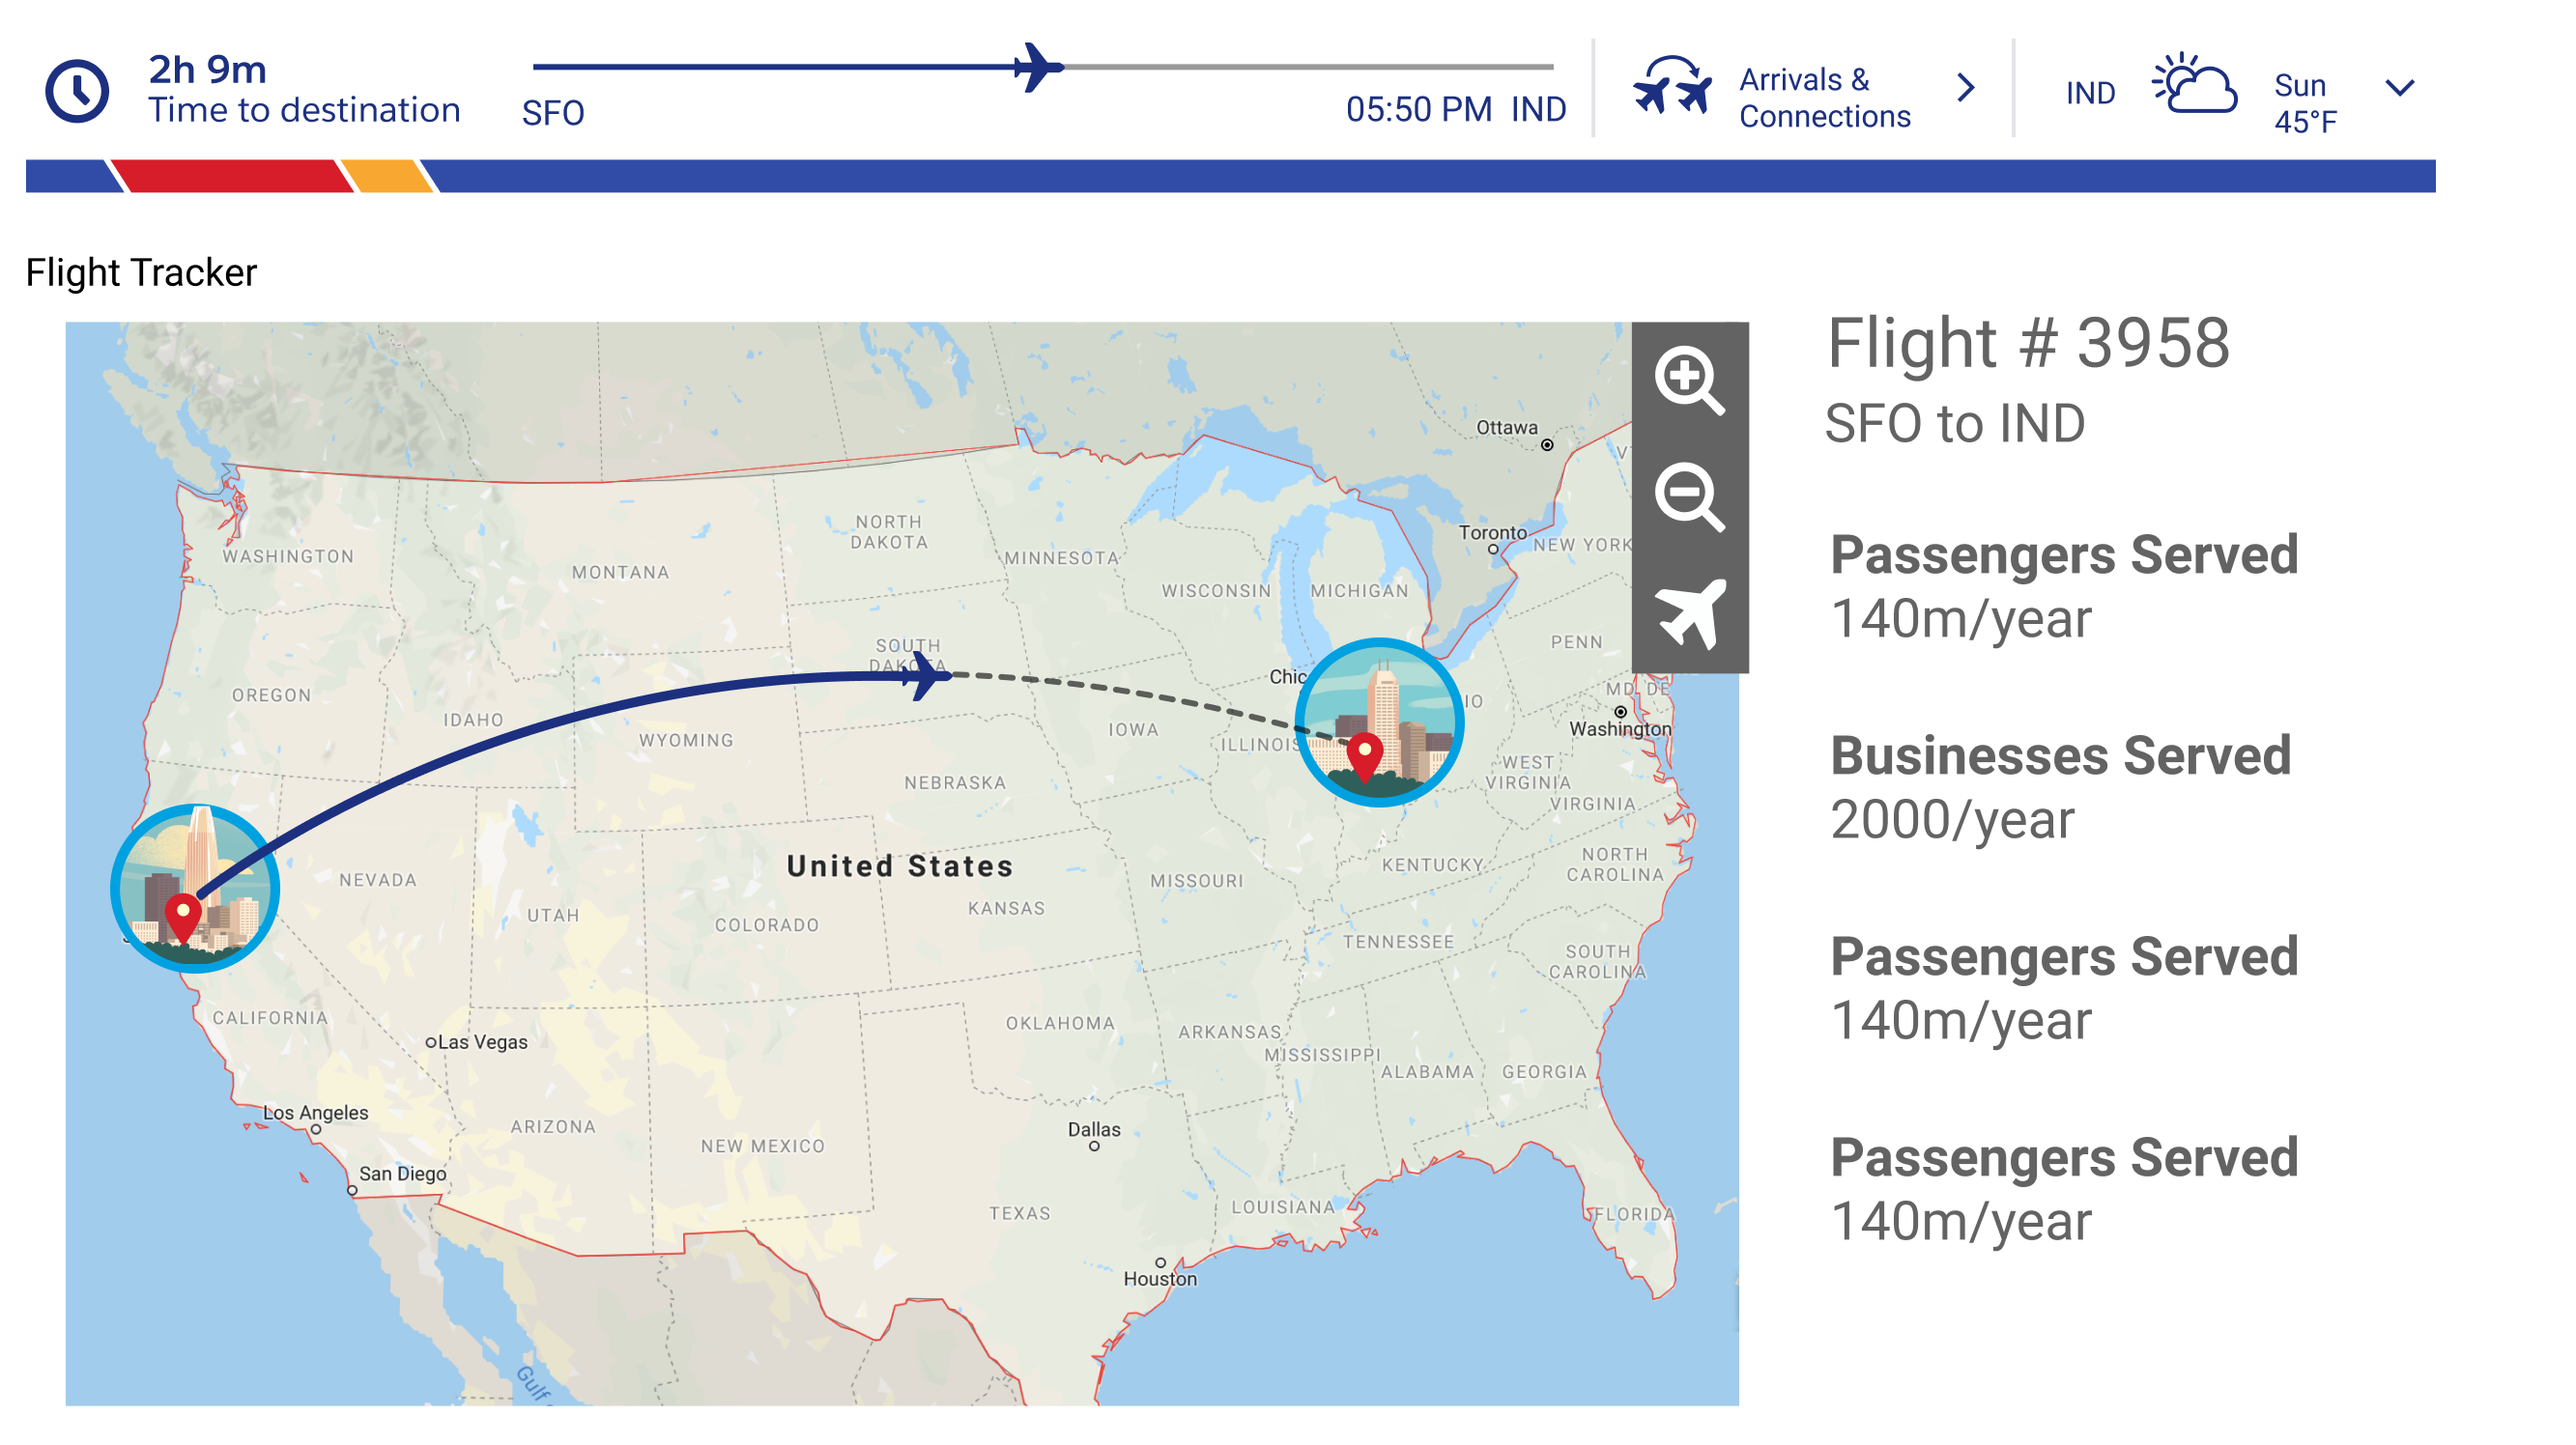
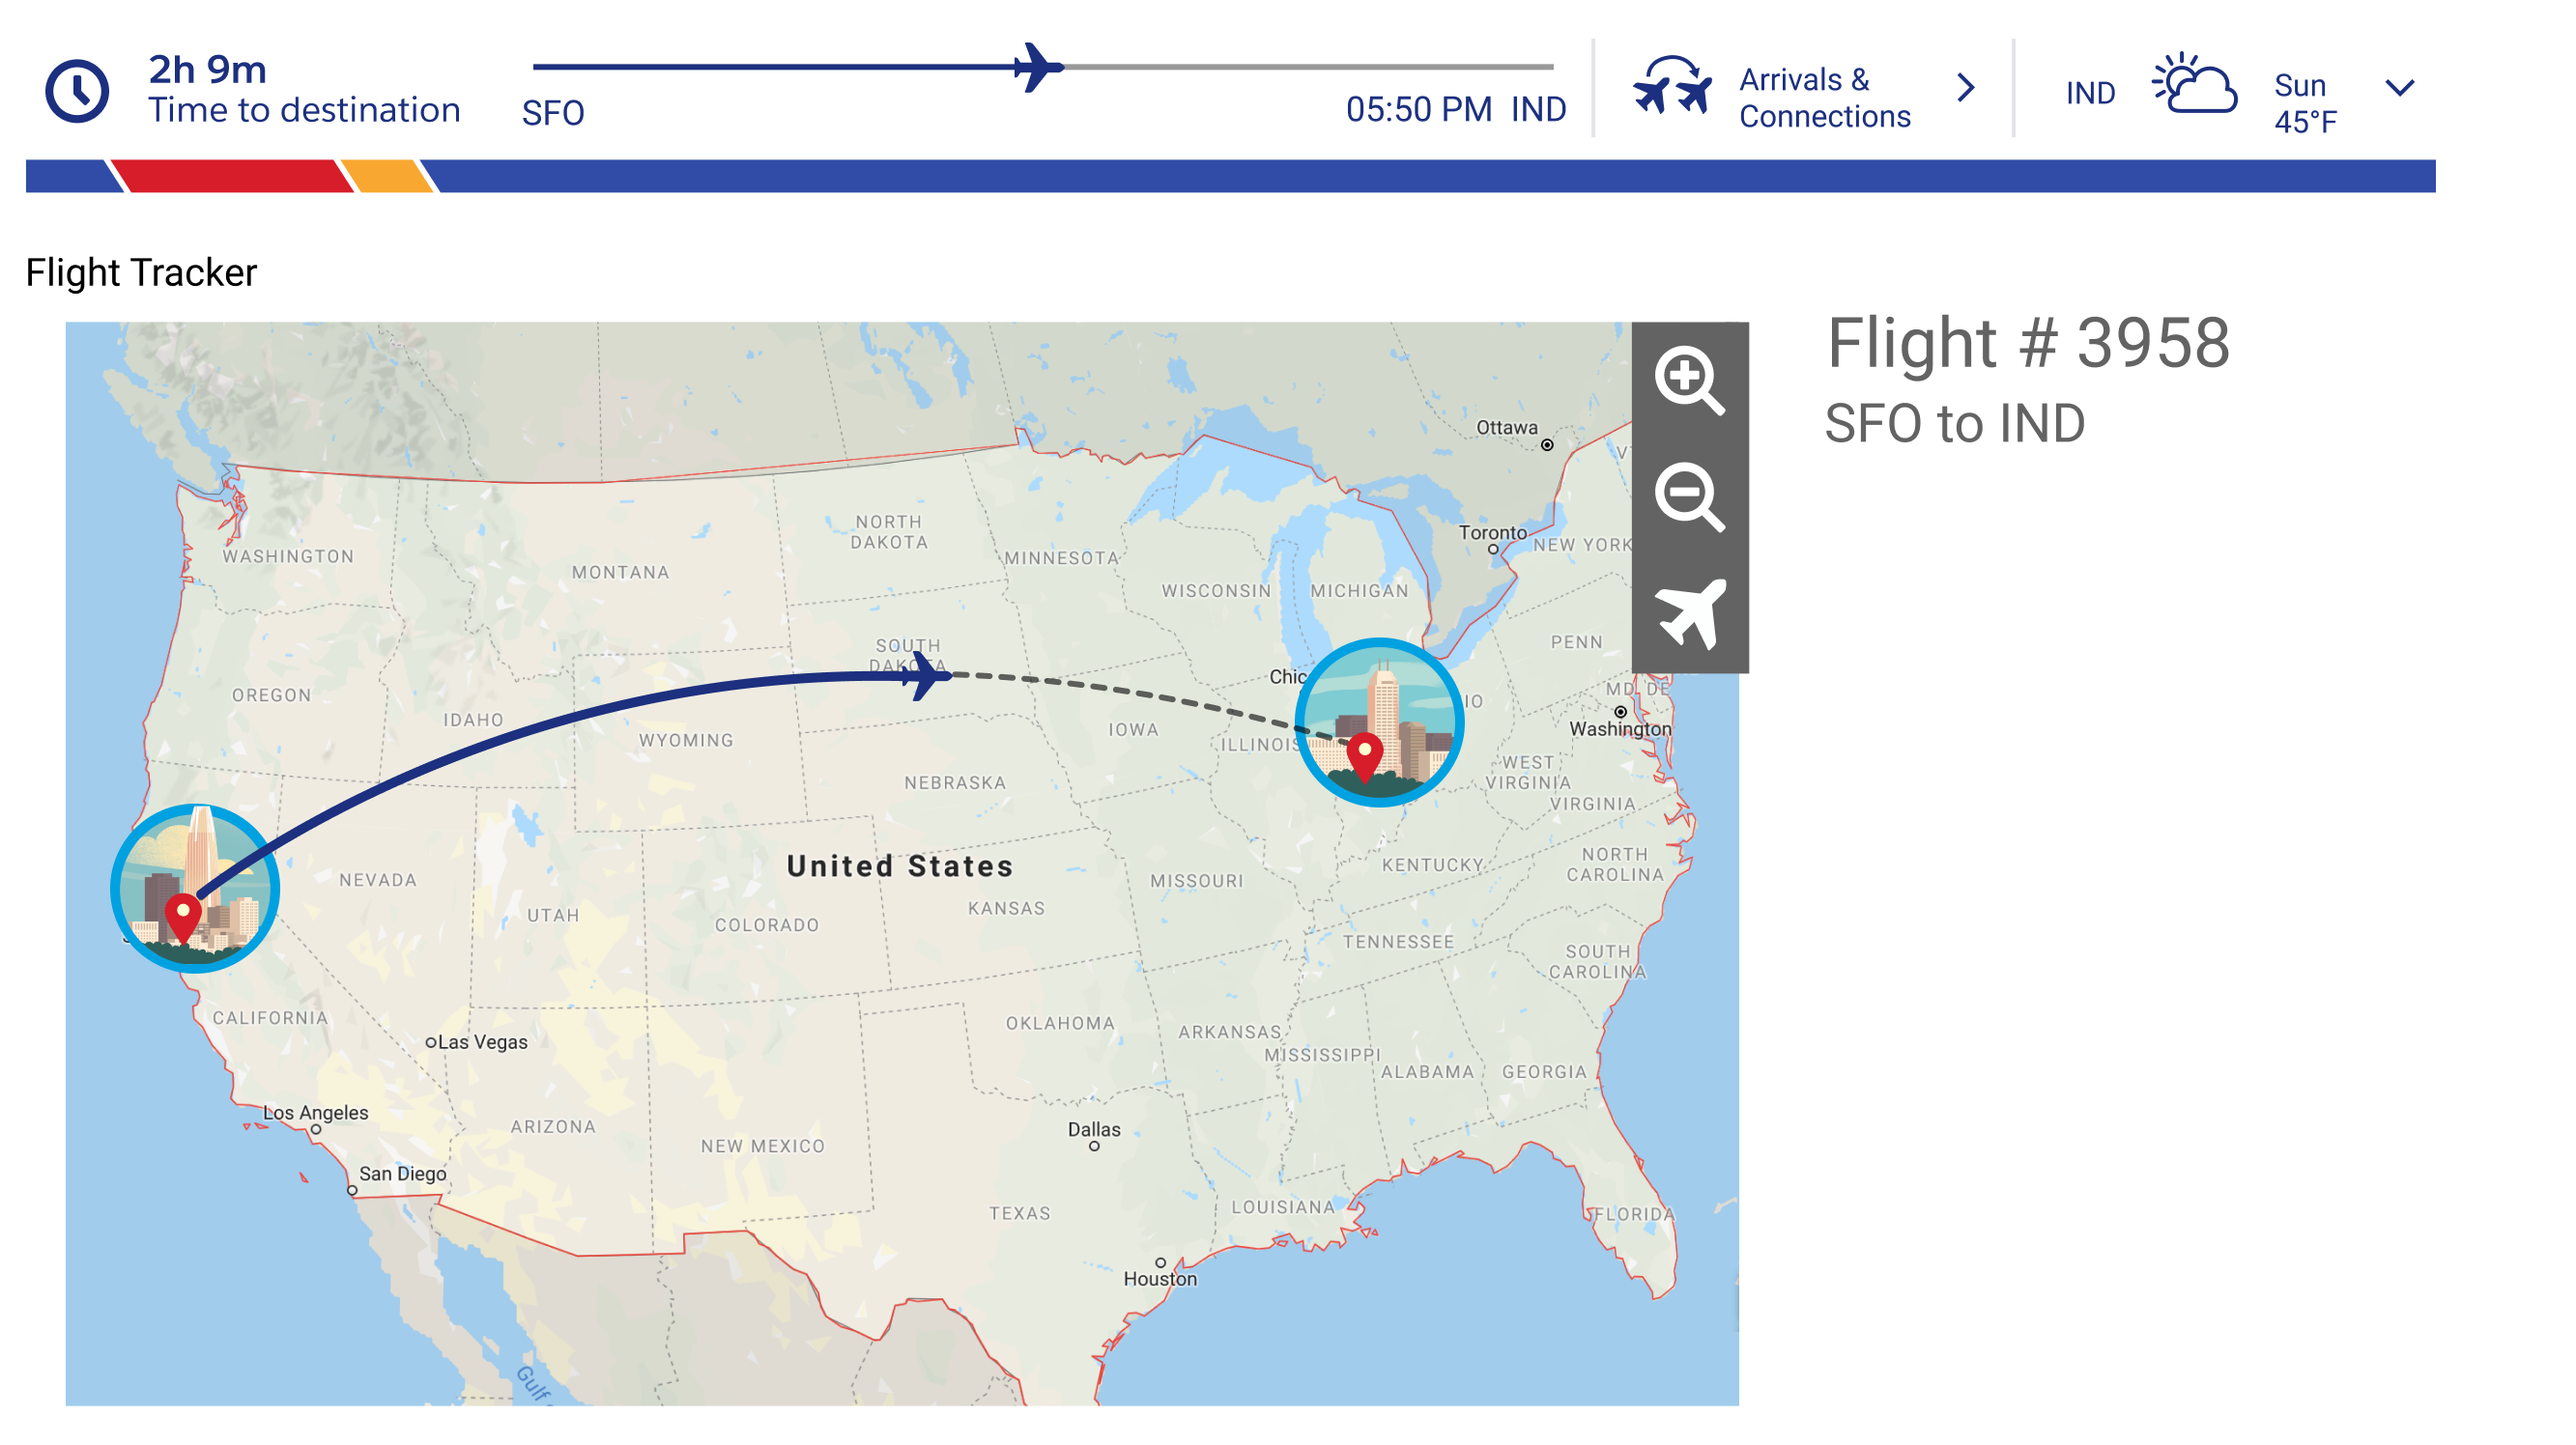
Adds the opening slide. Demo screen updates.

diff --git a/magick-flows-web-root/magick-flows/mc2-inov8-summit-2019/assets/styles.css b/magick-flows-web-root/magick-flows/mc2-inov8-summit-2019/assets/styles.css
@@ -1,7 +1,7 @@
 /* This is done to preload images and reduce load flicker */
 body::after {
   backface-visibility: visible;
-  content: url("/magick-flows/mc2-inov8-summit-2019/main/0000___ID=route-map-intro.png") url("/magick-flows/mc2-inov8-summit-2019/main/0010___ID=login-empty.png") url("/magick-flows/mc2-inov8-summit-2019/main/0015___ID=login-filled.png") url("/magick-flows/mc2-inov8-summit-2019/main/0020___ID=sales-home___DATA=is-own-header__own-header-height--90.png") url("/magick-flows/mc2-inov8-summit-2019/main/0030___ID=app-launcher.png") url("/magick-flows/mc2-inov8-summit-2019/main/0040___ID=marketing-home___DATA=is-own-header__own-header-height--90.png") url("/magick-flows/mc2-inov8-summit-2019/main/0050___ID=b2c-campaign-record-home___DATA=is-own-header__own-header-height--90.png") url("/magick-flows/mc2-inov8-summit-2019/main/0052___ID=a360-show-segment.png") url("/magick-flows/mc2-inov8-summit-2019/main/0054___ID=a360-edit-segment-1.png") url("/magick-flows/mc2-inov8-summit-2019/main/0056___ID=a360-edit-segment-2.png") url("/magick-flows/mc2-inov8-summit-2019/main/0059___ID=b2c-campaign-record-home___DATA=is-own-header__own-header-height--90.png") url("/magick-flows/mc2-inov8-summit-2019/main/0060___ID=campaign-events___DATA=use-step-transition__step-transition_auto-advance__step-transition-timing--fast.png") url("/magick-flows/mc2-inov8-summit-2019/main/0061___ID=campaign-events___DATA=use-step-transition__step-transition_auto-advance__step-transition-timing--fast.png") url("/magick-flows/mc2-inov8-summit-2019/main/0062___ID=campaign-events___DATA=use-step-transition__step-transition_auto-advance__step-transition-timing--fast.png") url("/magick-flows/mc2-inov8-summit-2019/main/0063___ID=campaign-events___DATA=use-step-transition__step-transition_auto-advance__step-transition-timing--fast.png") url("/magick-flows/mc2-inov8-summit-2019/main/0064___ID=campaign-events.png") url("/magick-flows/mc2-inov8-summit-2019/main/0070___ID=b2c-journey-intro.png") url("/magick-flows/mc2-inov8-summit-2019/main/0080___ID=b2c-bots___DATA=show-drawer-from-right--on-arrival__hide-drawer-from-right--never.png") url("/magick-flows/mc2-inov8-summit-2019/main/0090___ID=b2c-journey-bot-preview.png") url("/magick-flows/mc2-inov8-summit-2019/main/0100___ID=b2c-journey-add-bot-done.png") url("/magick-flows/mc2-inov8-summit-2019/main/0105___ID=route-map-progress.png") url("/magick-flows/mc2-inov8-summit-2019/main/0110___ID=b2b-marketing-home___DATA=is-own-header__own-header-height--90.png") url("/magick-flows/mc2-inov8-summit-2019/main/0120___ID=b2b-campaign-record-home___DATA=is-own-header__own-header-height--90.png") url("/magick-flows/mc2-inov8-summit-2019/main/0130___ID=b2b-journey-intro.png") url("/magick-flows/mc2-inov8-summit-2019/main/0140___ID=b2b-journey-app-exchange.png") url("/magick-flows/mc2-inov8-summit-2019/main/0150___ID=b2b-journey-go-to-meeting.png") url("/magick-flows/mc2-inov8-summit-2019/main/0160___ID=b2b-jb-email___DATA=show-drawer-from-right--on-arrival__hide-drawer-from-right--never.png") url("/magick-flows/mc2-inov8-summit-2019/main/0170___ID=b2b-journey-email-selected.png") url("/magick-flows/mc2-inov8-summit-2019/main/0180___ID=b2b-journey-email-select-edit.png") url("/magick-flows/mc2-inov8-summit-2019/main/0185___ID=b2b-journey-email-rebel-mail.png") url("/magick-flows/mc2-inov8-summit-2019/main/0190___ID=b2b-journey-email-rebel-mail.png") url("/magick-flows/mc2-inov8-summit-2019/main/0220___ID=b2b-journey-done.png") url("/magick-flows/mc2-inov8-summit-2019/main/0230___ID=b2b-campaign-record-analytics___DATA=is-own-header__own-header-height--90.png") url("/magick-flows/mc2-inov8-summit-2019/main/0240___ID=contact-record-home___DATA=is-own-header__own-header-height--90.png") url("/magick-flows/mc2-inov8-summit-2019/main/0250___ID=business-dashboard___DATA=is-own-header__own-header-height--90.png") url("/magick-flows/mc2-inov8-summit-2019/main/0260___ID=route-map-complete.png") url("/magick-flows/mc2-inov8-summit-2019/assets/all__viewport-size.png") url("/magick-flows/mc2-inov8-summit-2019/assets/b2b-jb-email___drawer-from-right.png") url("/magick-flows/mc2-inov8-summit-2019/assets/b2c-bots___drawer-from-right.png");
+  content: url("/magick-flows/mc2-inov8-summit-2019/main/0000___ID=southwest-routes-map.png") url("/magick-flows/mc2-inov8-summit-2019/main/0001___ID=route-map-intro.png") url("/magick-flows/mc2-inov8-summit-2019/main/0010___ID=login-empty.png") url("/magick-flows/mc2-inov8-summit-2019/main/0015___ID=login-filled.png") url("/magick-flows/mc2-inov8-summit-2019/main/0020___ID=sales-home___DATA=is-own-header__own-header-height--90.png") url("/magick-flows/mc2-inov8-summit-2019/main/0030___ID=app-launcher.png") url("/magick-flows/mc2-inov8-summit-2019/main/0040___ID=marketing-home___DATA=is-own-header__own-header-height--90.png") url("/magick-flows/mc2-inov8-summit-2019/main/0050___ID=b2c-campaign-record-home___DATA=is-own-header__own-header-height--90.png") url("/magick-flows/mc2-inov8-summit-2019/main/0052___ID=a360-show-segment.png") url("/magick-flows/mc2-inov8-summit-2019/main/0054___ID=a360-edit-segment-1.png") url("/magick-flows/mc2-inov8-summit-2019/main/0056___ID=a360-edit-segment-2.png") url("/magick-flows/mc2-inov8-summit-2019/main/0059___ID=b2c-campaign-record-home___DATA=is-own-header__own-header-height--90.png") url("/magick-flows/mc2-inov8-summit-2019/main/0060___ID=campaign-events___DATA=use-step-transition__step-transition_auto-advance__step-transition-timing--fast.png") url("/magick-flows/mc2-inov8-summit-2019/main/0061___ID=campaign-events___DATA=use-step-transition__step-transition_auto-advance__step-transition-timing--fast.png") url("/magick-flows/mc2-inov8-summit-2019/main/0062___ID=campaign-events___DATA=use-step-transition__step-transition_auto-advance__step-transition-timing--fast.png") url("/magick-flows/mc2-inov8-summit-2019/main/0063___ID=campaign-events___DATA=use-step-transition__step-transition_auto-advance__step-transition-timing--fast.png") url("/magick-flows/mc2-inov8-summit-2019/main/0064___ID=campaign-events.png") url("/magick-flows/mc2-inov8-summit-2019/main/0070___ID=b2c-journey-intro.png") url("/magick-flows/mc2-inov8-summit-2019/main/0080___ID=b2c-bots___DATA=show-drawer-from-right--on-arrival__hide-drawer-from-right--never.png") url("/magick-flows/mc2-inov8-summit-2019/main/0090___ID=b2c-journey-bot-preview.png") url("/magick-flows/mc2-inov8-summit-2019/main/0100___ID=b2c-journey-add-bot-done.png") url("/magick-flows/mc2-inov8-summit-2019/main/0105___ID=route-map-progress.png") url("/magick-flows/mc2-inov8-summit-2019/main/0110___ID=b2b-marketing-home___DATA=is-own-header__own-header-height--90.png") url("/magick-flows/mc2-inov8-summit-2019/main/0120___ID=b2b-campaign-record-home___DATA=is-own-header__own-header-height--90.png") url("/magick-flows/mc2-inov8-summit-2019/main/0130___ID=b2b-journey-intro.png") url("/magick-flows/mc2-inov8-summit-2019/main/0140___ID=b2b-journey-app-exchange.png") url("/magick-flows/mc2-inov8-summit-2019/main/0150___ID=b2b-journey-go-to-meeting.png") url("/magick-flows/mc2-inov8-summit-2019/main/0160___ID=b2b-jb-email___DATA=show-drawer-from-right--on-arrival__hide-drawer-from-right--never.png") url("/magick-flows/mc2-inov8-summit-2019/main/0170___ID=b2b-journey-email-selected.png") url("/magick-flows/mc2-inov8-summit-2019/main/0180___ID=b2b-journey-email-select-edit.png") url("/magick-flows/mc2-inov8-summit-2019/main/0185___ID=b2b-journey-email-rebel-mail.png") url("/magick-flows/mc2-inov8-summit-2019/main/0190___ID=b2b-journey-email-rebel-mail.png") url("/magick-flows/mc2-inov8-summit-2019/main/0220___ID=b2b-journey-done.png") url("/magick-flows/mc2-inov8-summit-2019/main/0230___ID=b2b-campaign-record-analytics___DATA=is-own-header__own-header-height--90.png") url("/magick-flows/mc2-inov8-summit-2019/main/0240___ID=contact-record-home___DATA=is-own-header__own-header-height--90.png") url("/magick-flows/mc2-inov8-summit-2019/main/0250___ID=business-dashboard___DATA=is-own-header__own-header-height--90.png") url("/magick-flows/mc2-inov8-summit-2019/main/0260___ID=route-map-complete.png") url("/magick-flows/mc2-inov8-summit-2019/assets/all__viewport-size.png") url("/magick-flows/mc2-inov8-summit-2019/assets/b2b-jb-email___drawer-from-right.png") url("/magick-flows/mc2-inov8-summit-2019/assets/b2c-bots___drawer-from-right.png");
   outline: 1px solid red;
   height: 0;
   overflow: hidden;
@@ -161,7 +161,7 @@ body, .container {
   position: absolute;
   top: 0;
   transition: 2000ms transform, 800ms left;
-  width: 90880px;
+  width: 93440px;
 }
 
 .app-switcher-one.shrink {
@@ -1375,6 +1375,38 @@ body.debug div#drawer-from-top--step-36::before {
   top: 0;
   width: 1280px;
   left: 92160px;
+}
+
+.app-switcher-one.be-left-37 {
+  left: -94720px;
+  transition: none !important;
+  will-change: transform, left;
+}
+
+.app-switcher-one.slide-left-37 {
+  left: -94720px;
+}
+
+body.debug div#drawer-from-top--step-37::before {
+  content: "Drawer #37";
+  display: block;
+  width: 100vw;
+  height: 3rem;
+  position: absolute;
+  bottom: 0rem;
+  background: rgba(0, 0, 0, 0.16);
+  text-align: center;
+  color: black;
+  margin: auto;
+  font-size: 2rem;
+}
+
+.magick-flows--step-37 {
+  height: 720px;
+  position: absolute;
+  top: 0;
+  width: 1280px;
+  left: 94720px;
 }
 
 footer.magick-flows-stickey-footer_container {

diff --git a/magick-flows-web-root/magick-flows/mc2-inov8-summit-2019/assets/variables.scss b/magick-flows-web-root/magick-flows/mc2-inov8-summit-2019/assets/variables.scss
@@ -1,5 +1,6 @@
-$numberOfSlides: 36;
-$preloadImagesData: url('/magick-flows/mc2-inov8-summit-2019/main/0000___ID=route-map-intro.png')
+$numberOfSlides: 37;
+$preloadImagesData: url('/magick-flows/mc2-inov8-summit-2019/main/0000___ID=southwest-routes-map.png')
+		url('/magick-flows/mc2-inov8-summit-2019/main/0001___ID=route-map-intro.png')
 		url('/magick-flows/mc2-inov8-summit-2019/main/0010___ID=login-empty.png')
 		url('/magick-flows/mc2-inov8-summit-2019/main/0015___ID=login-filled.png')
 		url('/magick-flows/mc2-inov8-summit-2019/main/0020___ID=sales-home___DATA=is-own-header__own-header-height--90.png')
